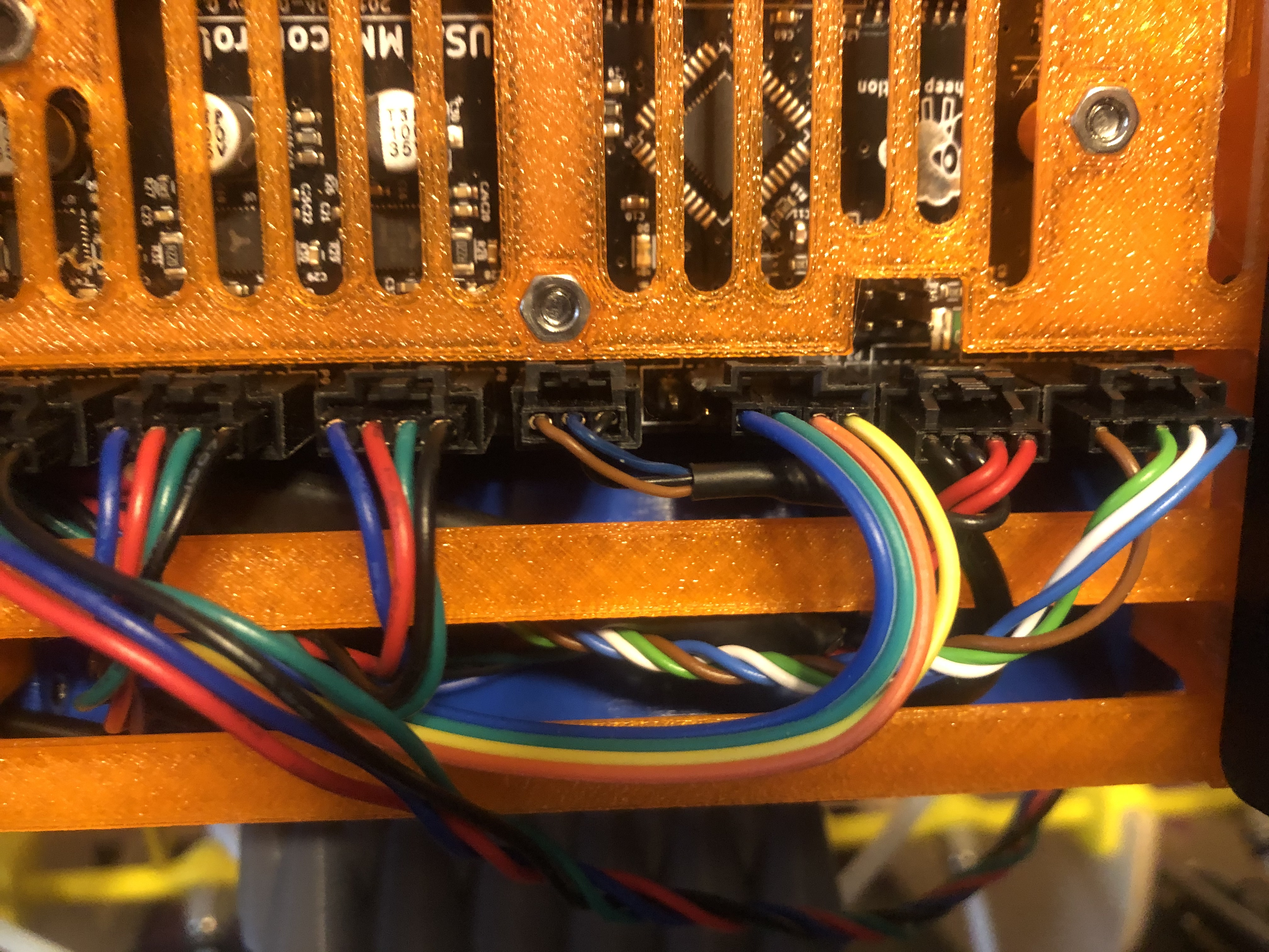
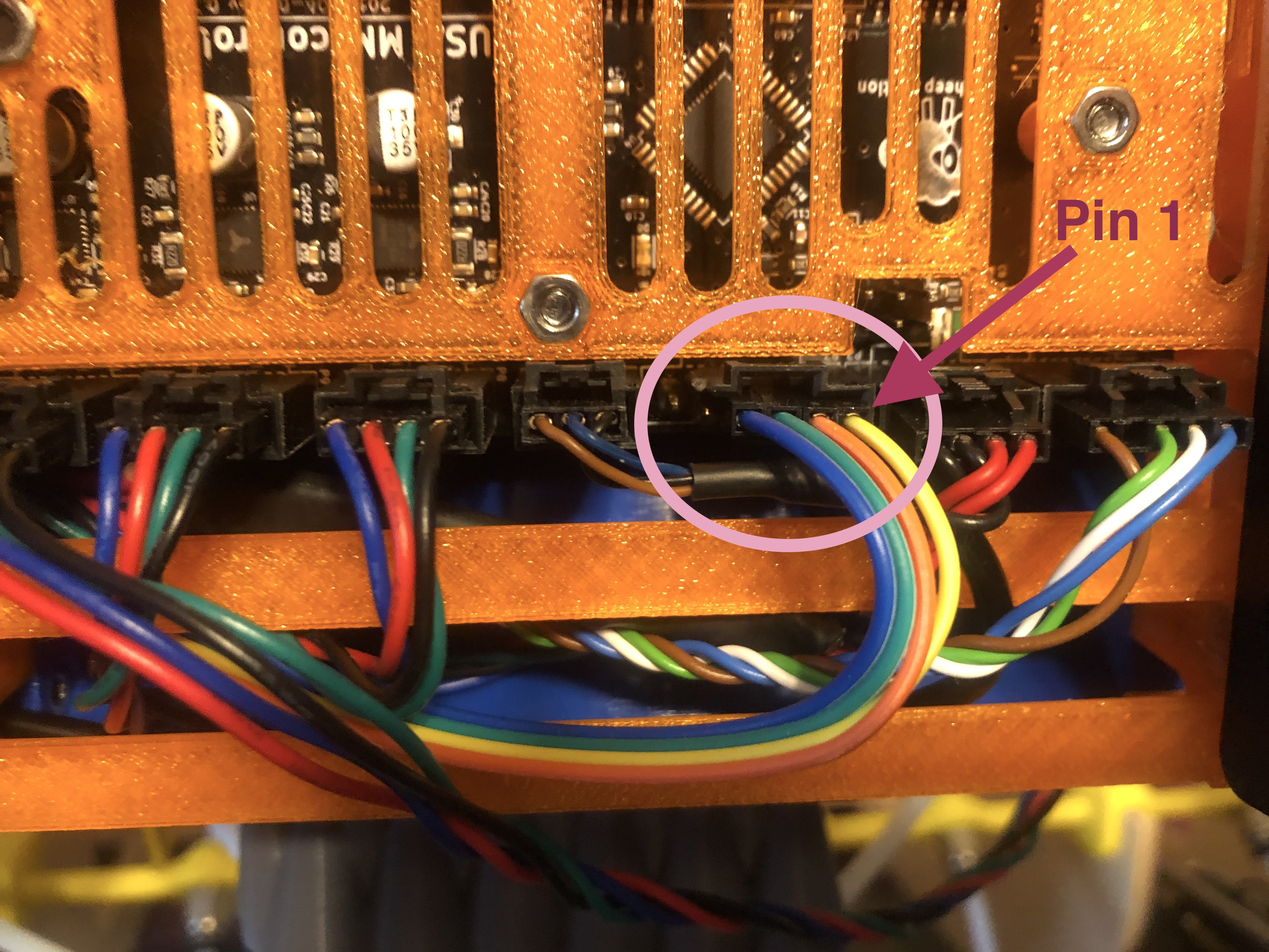
format tips.md

diff --git a/TIPS.md b/TIPS.md
@@ -58,10 +58,11 @@ I2C interface.)
 
 Note the order of the colors, here; they are not the same on both sides. 
 In case you have a different display, the actual pin connections should be as shown below.
-Pin "1" on the control board is the one closest to the power connection.
+Pin "1" on the control board is the one closest to the power connection. The colors listed
+below are only in reference to the wires I used in the two photos above.
 ```
-  1 <-> VCC (+5v)
-  2 <-> GND
-  3 <-> SCL
-  4 <-> SDA
+  1 <-> VCC (yellow)
+  2 <-> GND (orange)
+  3 <-> SCL (green)
+  4 <-> SDA (blue)
 ```
